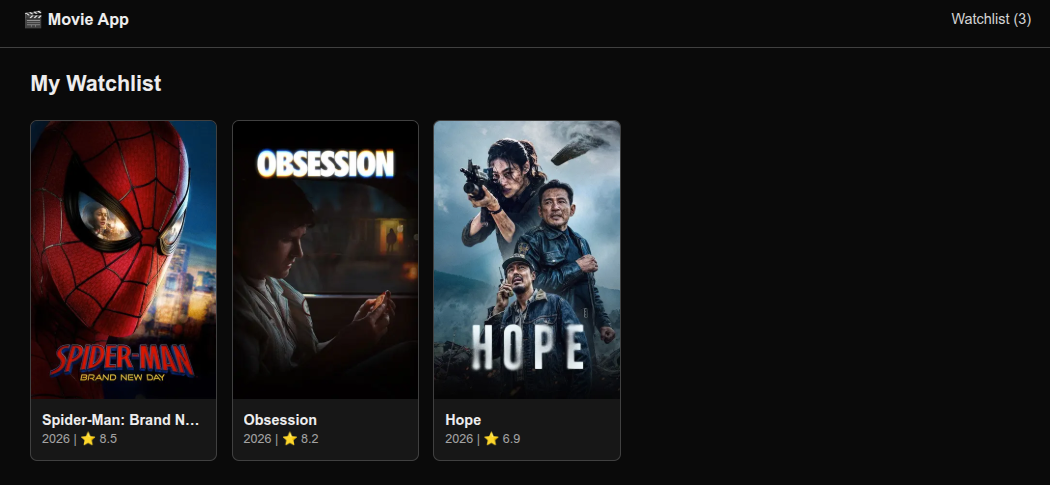
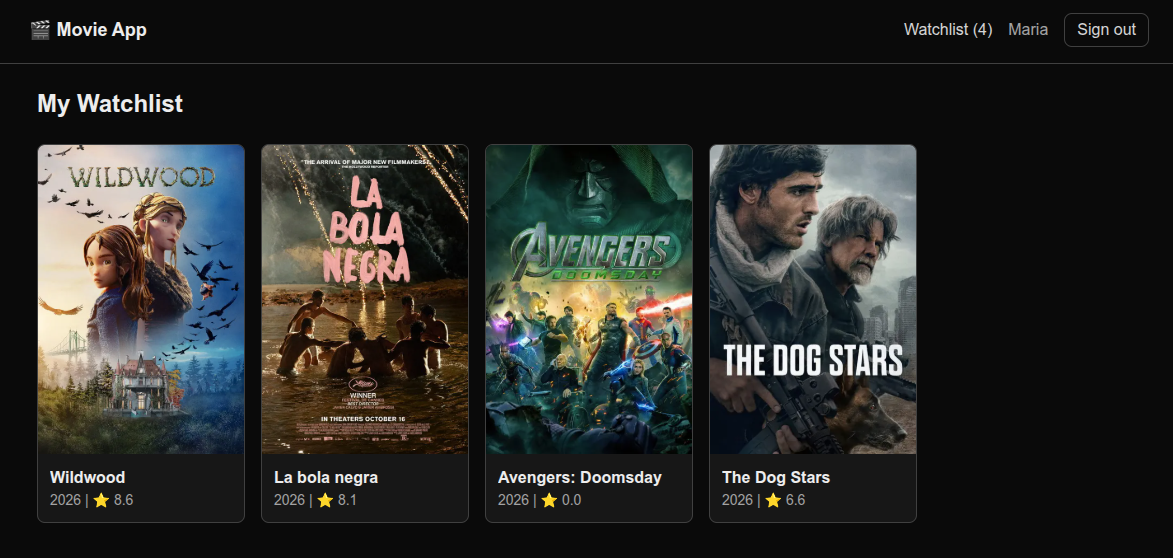
update README for accounts, database, and security

diff --git a/components/AuthForm.tsx b/components/AuthForm.tsx
@@ -30,7 +30,11 @@ export default function AuthForm({ mode }: { mode: "sign-in" | "sign-up" }) {
         : await authClient.signIn.email({ email, password });
 
       if (error) {
-        setError(error.message ?? "Something went wrong. Please try again.");
+        if (error.status === 429) {
+          setError("Too many attempts. Please wait a moment and try again.");
+        } else {
+          setError(error.message ?? "Something went wrong. Please try again.");
+        }
         return;
       }
 

diff --git a/lib/auth.ts b/lib/auth.ts
@@ -6,5 +6,9 @@ import { db } from "./db";
 export const auth = betterAuth({
   database: drizzleAdapter(db, { provider: "pg" }),
   emailAndPassword: { enabled: true },
+  rateLimit: {
+    enabled: true,
+    storage: "memory",
+  },
   plugins: [nextCookies()],
 });

diff --git a/README.md b/README.md
@@ -1,6 +1,6 @@
 # Movie App
 
-A movie discovery app where you can browse what's trending, search for any movie, watch trailers, see the cast, save movies to a watchlist, or let the app pick something for tonight.
+A movie discovery app where you can browse what's trending, search for any movie, watch trailers, see the cast, get a random pick for tonight, and sign in to keep a personal watchlist that is saved in a database.
 
 ![Home page](docs/screenshots/home.png)
 
@@ -10,17 +10,25 @@ A movie discovery app where you can browse what's trending, search for any movie
 |---|---|---|
 | ![Details](docs/screenshots/details.png) | ![Trailer](docs/screenshots/trailer.png) | ![Cast](docs/screenshots/cast.png) |
 
-| Watchlist | Light Theme | Dark Theme |
+**Accounts and watchlist**
+
+| Sign up | Sign in | Watchlist (signed in) |
 |---|---|---|
-| ![Watchlist](docs/screenshots/watchlist.png) | ![Mobile light](docs/screenshots/mobile-light.png) | ![Mobile dark](docs/screenshots/mobile-dark.png) |
+| ![Sign up](docs/screenshots/sign-up.png) | ![Sign in](docs/screenshots/sign-in.png) | ![Watchlist](docs/screenshots/watchlist.png) |
+
+| Light Theme | Dark Theme |
+|---|---|
+| ![Mobile light](docs/screenshots/mobile-light.png) | ![Mobile dark](docs/screenshots/mobile-dark.png) |
 
 ## Features
 
 - **Trending today:** the home page shows what's trending, with posters, year, and rating.
 - **Search:** the search term lives in the URL (`/search?q=batman`), so results can be refreshed, bookmarked, and shared.
 - **Details page:** poster, tagline, genres, runtime, overview, embedded trailer, and top cast.
-- **Watchlist:** save and remove movies, with a live count in the header. It's kept in the browser and stays in sync across tabs.
 - **Random pick:** one click opens a random well-reviewed movie.
+- **Accounts:** sign up, sign in, and sign out with email and password.
+- **Personal watchlist:** signed-in users can save and remove movies. The list is stored in PostgreSQL, so it follows the user across devices, and the header shows a live count.
+- **Protected pages:** the watchlist page is only for signed-in users, and every user only ever sees their own list.
 - **Loading, empty, error, and not-found states:** skeleton placeholders while data loads, friendly messages when there are no results, and a proper page for bad URLs.
 - **Light and dark theme:** follows the device setting.
 - **Responsive:** works on phones, tablets, and desktops.
@@ -29,14 +37,22 @@ A movie discovery app where you can browse what's trending, search for any movie
 
 | Tool | Why I used it |
 |---|---|
-| Next.js 16 (App Router) | Server components let me call the API on the server, so the API key never reaches the browser. |
-| TypeScript | Catches mistakes early, and the TMDB response shapes are written as types. |
+| Next.js 16 (App Router) | Server components let me call APIs and the database on the server, so keys and passwords never reach the browser. |
+| TypeScript | Catches mistakes early, and the TMDB response shapes and database tables are typed. |
 | Tailwind CSS v4 | Fast styling, with color variables for the light and dark theme. |
 | TMDB API | Free, large movie database with images, cast, and trailers. |
+| PostgreSQL | A real relational database. I already knew it, and it enforces rules like unique rows and foreign keys. |
+| Drizzle ORM and drizzle-kit | Close to plain SQL, with typed queries and migration files that record how the database changed. |
+| Better Auth | Handles sign up, sign in, sessions, and password hashing, and stores users in my own database. |
 
 ## Getting started
 
-You need Node.js 20 or newer and a free [TMDB API key](https://www.themoviedb.org/settings/api).
+You need:
+- Node.js 24 (the current LTS; the Better Auth CLI needs Node 22.12 or newer)
+- PostgreSQL 16 or newer, running locally
+- A free [TMDB API key](https://www.themoviedb.org/settings/api)
+
+**1. Clone and install**
 
 ```bash
 git clone https://github.com/MariaEgbuna/movie-app.git
@@ -44,15 +60,37 @@ cd movie-app
 npm install
 ```
 
-Create a file called `.env.local` in the project root and add your key:
+**2. Create the database and a user for the app**
+
+```bash
+sudo -u postgres psql
+```
+
+```sql
+CREATE USER movie_app_user WITH PASSWORD 'choose-a-password';
+CREATE DATABASE movie_app OWNER movie_app_user;
+```
+
+Type `\q` to leave. The app gets its own user, so it only has access to its own database.
+
+**3. Add your environment variables.** Create a file called `.env.local` in the project root:
 
 ```
-TMDB_API_KEY=your_key_here
+TMDB_API_KEY=your_tmdb_key
+DATABASE_URL=postgres://movie_app_user:choose-a-password@localhost:5432/movie_app
+BETTER_AUTH_SECRET=a_long_random_value
+BETTER_AUTH_URL=http://localhost:3000
 ```
 
-Both TMDB key types work: the short API key, or the long "Read Access Token" (the app detects which one you used).
+Make the secret with `openssl rand -base64 32`. The TMDB key can be the short API key or the long "Read Access Token" (the app detects which one you used). Keep this file out of git: it is already in `.gitignore`.
 
-Then start the dev server:
+**4. Create the tables**
+
+```bash
+npx drizzle-kit migrate
+```
+
+**5. Start the dev server**
 
 ```bash
 npm run dev
@@ -60,58 +98,107 @@ npm run dev
 
 Open [http://localhost:3000](http://localhost:3000).
 
-| Script | What it does |
+| Command | What it does |
 |---|---|
 | `npm run dev` | Starts the dev server |
 | `npm run dev:ipv4` | Starts the dev server with IPv4 preferred, for networks where Node times out (see "What I learned") |
 | `npm run build` | Builds for production |
 | `npm run start` | Runs the production build |
 | `npm run lint` | Checks the code with ESLint |
+| `npx drizzle-kit generate --name some_name` | Creates a new migration after changing a schema file in `db/` |
+| `npx drizzle-kit migrate` | Applies migrations to the database |
 
 ## Project structure
 
 ```
 app/
-  layout.tsx            Page shell and header
-  page.tsx              Home: search bar, random pick button, trending grid
-  loading.tsx           Skeleton for list pages
-  error.tsx             Friendly error page with a retry button
-  not-found.tsx         Page for missing movies and bad URLs
-  search/page.tsx       Search results
-  movie/[id]/page.tsx   Details page
+  layout.tsx              Page shell: header, content, footer
+  page.tsx                Home: search bar, random pick button, trending grid
+  loading.tsx             Skeleton for list pages
+  error.tsx               Friendly error page with a retry button
+  not-found.tsx           Page for missing movies and bad URLs
+  search/page.tsx         Search results
+  movie/[id]/page.tsx     Details page
   movie/[id]/loading.tsx  Skeleton for the details page
-  watchlist/page.tsx    Saved movies
-  random/route.ts       Picks a random movie and redirects to it
-components/             Header, MovieCard, MovieGrid, SearchBar, WatchlistButton, skeletons
+  watchlist/page.tsx      The signed-in user's saved movies
+  sign-in/page.tsx        Sign in form
+  sign-up/page.tsx        Sign up form
+  random/route.ts         Picks a random movie and redirects to it
+  api/auth/[...all]/      Better Auth route handler (all auth endpoints)
+  actions/watchlist.ts    Server action: add or remove a movie
+components/               Header, HeaderNav, Footer, MovieCard, MovieGrid, SearchBar,
+                          AuthForm, WatchlistButton, skeletons
+db/
+  auth-schema.ts          Tables generated for Better Auth (user, session, account, verification)
+  watchlist-schema.ts     My own table: watchlist_item
+drizzle/                  Migration files (the history of the database)
 lib/
-  tmdb.ts               All TMDB requests, with retries and timeouts
-  watchlist.ts          Watchlist saved in localStorage
+  tmdb.ts                 All TMDB requests, with retries and timeouts
+  db.ts                   Shared database connection
+  auth.ts                 Better Auth setup (server)
+  auth-client.ts          Better Auth client (browser)
+  session.ts              getSession(): who is signed in on this request
+  watchlist-queries.ts    Read queries for the watchlist
+proxy.ts                  First gate: redirects signed-out visitors away from /watchlist
+drizzle.config.ts         drizzle-kit settings
 ```
+
+## Database
+
+Better Auth creates four tables: `user`, `session`, `account` (where the password hash is stored), and `verification`. I added one:
+
+**`watchlist_item`**
+
+| Column | Notes |
+|---|---|
+| `id` | Primary key |
+| `user_id` | Foreign key to `user`, with `ON DELETE CASCADE` so deleting a user deletes their list |
+| `movie_id` | The TMDB id |
+| `title`, `poster_path`, `release_date`, `vote_average` | Saved so the watchlist can show cards without asking TMDB again |
+| `added_at` | Defaults to now |
+
+There is a **unique constraint on (`user_id`, `movie_id`)**, so the same movie cannot be saved twice by the same user, even if two clicks arrive at once. That constraint also creates an index starting with `user_id`, so lookups by user are fast without a separate index.
+
+My table lives in its own file so that re-running the Better Auth CLI, which rewrites `db/auth-schema.ts`, can never overwrite it.
 
 ## How it works
 
-- **The API key stays on the server.** Pages are server components, and the key has no `NEXT_PUBLIC_` prefix, so it is never sent to the browser.
+- **Keys and passwords stay on the server.** Pages are server components, and none of the secrets have a `NEXT_PUBLIC_` prefix, so they are never sent to the browser.
 - **One place for API calls.** `lib/tmdb.ts` holds the base URL, the key handling, retries (3 attempts), and an 8 second timeout. A 404 from TMDB becomes a proper "not found" page, and other failures reach the error page.
 - **Fewer requests.** The details page asks TMDB for the movie, cast, and trailers in a single request, and responses are cached for an hour.
 - **Search uses a plain form** that goes to `/search?q=...`, so it works without client-side JavaScript.
-- **The watchlist uses `useSyncExternalStore`** to read `localStorage`. That keeps the button, the header count, and the watchlist page in sync, and avoids a mismatch between the server and the browser.
 - **The movie id from the URL is checked** (digits only) before it is used in an API request.
+
+## Security
+
+- **Passwords are never stored in plain text.** Better Auth hashes them, and I never write code that touches the raw password.
+- **Sessions use an HttpOnly cookie**, so scripts on the page cannot read it.
+- **Two layers protect the watchlist page.** `proxy.ts` quickly redirects visitors who have no session cookie, but it only checks that a cookie exists. The page itself then validates the session on the server and redirects if it is not real. I tested this by creating a fake session cookie: the proxy let it through, and the page rejected it.
+- **The user id always comes from the server session,** never from anything the browser sends. Every watchlist query filters by it, so one user cannot read or change another user's list. I tested this with two accounts.
+- **Server actions validate their input.** The movie data sent from the browser is checked field by field before it is saved.
+- **Rate limiting is on.** Sign in is limited to 3 attempts per 10 seconds by default. I confirmed it with a test: three wrong attempts got a 401 and the next three got a 429. The form shows a friendly message when blocked.
+- **Sign in errors are generic.** A wrong password and an unknown email both say "Invalid email or password", so the form does not reveal which emails have accounts.
 
 ## What I learned
 
 Problems I ran into and how I solved them:
 
-- **Images didn't load after changing `next.config.ts`.** Next.js only reads that file at startup, so I needed to restart the dev server.
+- **Images didn't load after changing `next.config.ts`.** Next.js only reads that file at startup, so I needed to restart the dev server. Later I also deleted the `export default nextConfig;` line by accident, which made Next.js ignore the whole file, including the image host list and the Tailwind rule.
 - **Requests to TMDB timed out from Node but worked in `curl`.** On a phone hotspot, Node 20 gave the IPv4 connection too little time before also trying IPv6 (which had no route). Starting Node with `--dns-result-order=ipv4first --no-network-family-autoselection` fixed it, and I added retries and a timeout so real users on weak connections get a friendly error instead of a crash.
 - **`loading.tsx` was ignored.** I had created a second `app` folder inside `app`. Special Next.js files only work in the right place.
 - **Parts of the UI were invisible in light mode.** My colors were fixed for a dark page. I replaced them with named color variables (`surface`, `muted`, `accent`, and so on) that have a light and a dark value.
-- **The watchlist button did nothing when testing on my phone.** The dev server blocks scripts requested from other addresses, so I added my PC's address to `allowedDevOrigins`.
+- **The watchlist button did nothing when testing on my phone.** The dev server blocks scripts requested from other addresses, so I added my PC's address to `allowedDevOrigins` (and removed it again before committing).
 - **The random pick redirect sent my phone to `localhost`.** Redirecting with a relative path fixed it.
+- **The Better Auth CLI crashed with `Object.groupBy is not a function`.** It needs Node 22.12 or newer, and I was on Node 20, which reached end of life in April 2026. Upgrading to Node 24 with nvm fixed it, and my app ran unchanged.
+- **`npm install` crashed with `Cannot read properties of null (reading 'edgesOut')`.** The npm debug log showed a bug in npm 10 while it resolved the many optional peer packages that Better Auth lists. Installing with `--legacy-peer-deps` worked around it.
+- **Moving the watchlist from the browser to a database changed the architecture.** The header became a server component that reads the session and the count, with a small client component for the sign out button. Server actions then call `revalidatePath` so the count updates by itself.
 
 ## Known limits and ideas
 
-- The watchlist is saved per browser and device. A version with accounts and a database would fix that.
-- Ideas for later: manual light/dark toggle, genre filter, search-as-you-type, TV shows.
+- Email verification and password reset are not set up yet.
+- Rate limit counters are kept in memory, which is fine for one local server. A deployed version would store them in the database.
+- The app is not deployed yet. That needs a hosted PostgreSQL database and the environment variables set on the host.
+- Ideas for later: GitHub sign in, going back to the movie after signing in, instant button feedback, a genre filter, search-as-you-type, a manual light/dark toggle, TV shows.
 
 ## Credits
 
